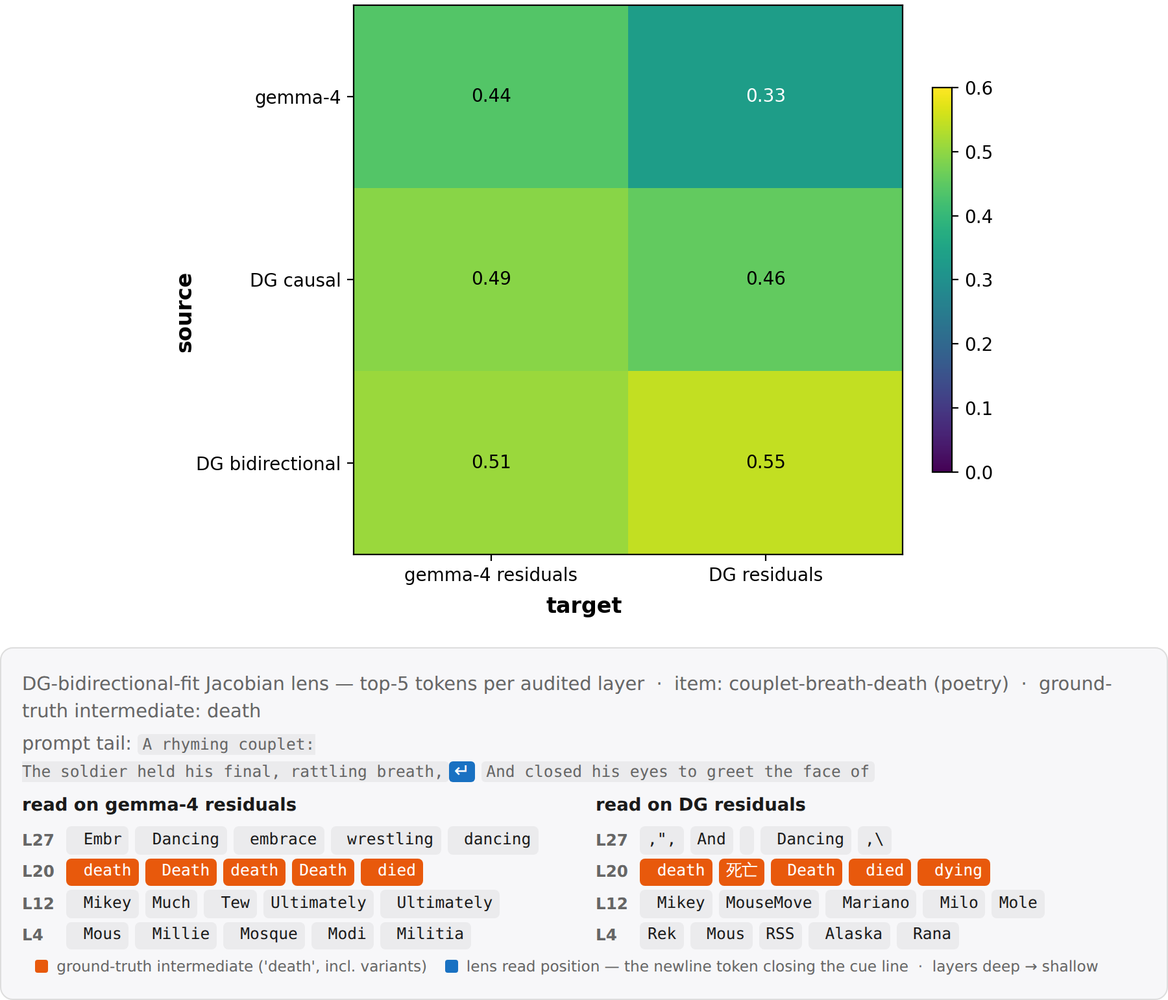
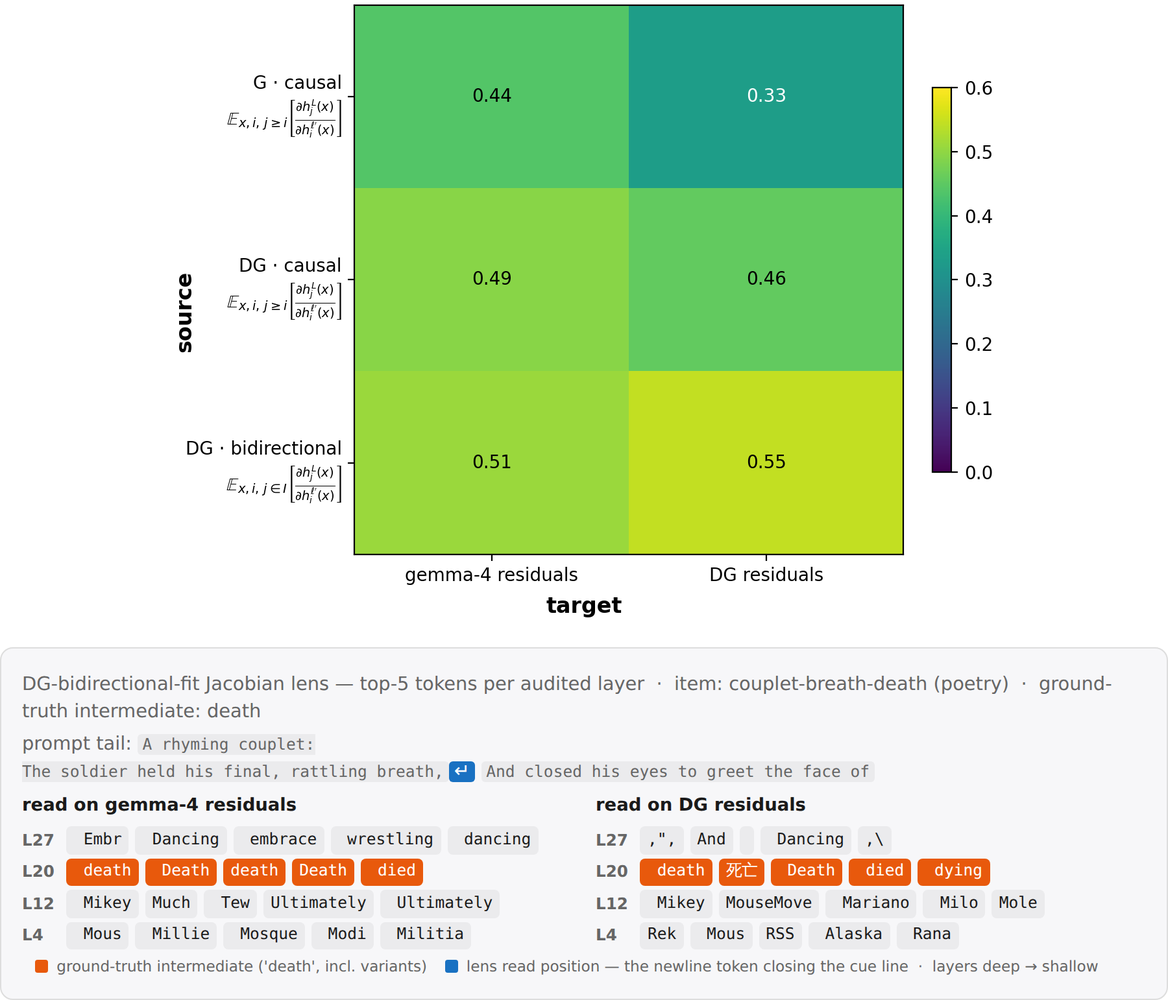
Superscript t everywhere, S^0=0 fill, jlens math source ticks, clickbait caption fix
Claude-Session: https://claude.ai/code/session_01U8CiyQ7ySpBDkYEq4FzNBU

diff --git a/post.html b/post.html
@@ -64,31 +64,31 @@ code.gen.chip{padding:.15em .45em;border-radius:4px;white-space:pre}
 <h2>TL;DR</h2>
 <p>Google DeepMind's recent model DiffusionGemma (DG) works differently from regular language models, including by passing distribution vectors in addition to tokens between generation steps. A priori, this allows it to <strong>pass information that is illegible to monitors</strong>, sometimes called "latent reasoning". A recent paper found that DG nevertheless maintains high monitorability, but at the same time found that ablating the passed distribution degrades performance. Here, we show that this performance degradation is largely a sampler artifact, supporting the case for high monitorability. Nevertheless, we find some rare cases where the distribution vector is load-bearing computationally, however in a way that is easily interpretable. Overall, this underlines the paper's conclusion that DiffusionGemma remains highly monitorable, while nevertheless showing that there are cases where models can learn to use vector-valued information.</p>
 <h2>Introduction</h2>
-<p>DiffusionGemma is a text-generation model, based on the Gemma architecture. In short, generation looks like the following. Let $p$ be the prompt, and let $X_0\in\mathcal{V}^{C}$ be the noise-initialized token canvas comprising $C$ positions. The self-conditioning state $\mathbf{S}_0\in\mathbb{R}^{C\times |\mathcal{V}|}$ is initialised uninformatively — there is no model output to feed back at the first step. Let $f$ denote a single forward pass through the transformer stack, which is a finetune of Gemma. Roughly, the final output $X_T$ then is obtained via</p>
+<p>DiffusionGemma is a text-generation model, based on the Gemma architecture. In short, generation looks like the following. Let $p$ be the prompt, and let $X^0\in\mathcal{V}^{C}$ be the noise-initialized token canvas comprising $C$ positions. The self-conditioning state $\mathbf{S}^0\in\mathbb{R}^{C\times |\mathcal{V}|}$ is initialised uninformatively to $\mathbf{0}$ — there is no model output to feed back at the first step. Let $f$ denote a single forward pass through the transformer stack, which is a finetune of Gemma. Roughly, the final output $X^T$ then is obtained via</p>
 <p>$$
 \begin{aligned}
 &\textbf{for } t = 0, \dots, T-1: \\[2pt]
-&\qquad \mathbf{S}_{t+1} = f(p,\, X_t;\, \mathbf{S}_t) \\[2pt]
-&\qquad X_{t+1} = \mathrm{sample}(\mathbf{S}_{t+1})
+&\qquad \mathbf{S}^{t+1} = f(p,\, X^t;\, \mathbf{S}^t) \\[2pt]
+&\qquad X^{t+1} = \mathrm{sample}(\mathbf{S}^{t+1})
 \end{aligned}
 $$</p>
-<p>where $T$ is the number of diffusion steps. Importantly, $X_t$ attends bidirectionally to itself, and causally to $p$. $\mathbf{s}_t[x_t]$ also functions as a confidence score for any token $x_t$: unless a confidence threshold is passed, $x_t$ gets replaced with a random token at every step $t$, facilitating exploration and correction. Two consequences matter for this post: at such open positions the canvas carries no information from one step to the next — $\mathbf{s}_t$ is the only memory the model has there — and the pace of commitment is set by this confidence gate, so anything that artificially sharpens $\mathbf{s}_t$ (such as truncating it to its top-k entries) makes the gate commit more positions, earlier.</p>
+<p>where $T$ is the number of diffusion steps. Importantly, $X^t$ attends bidirectionally to itself, and causally to $p$. $\mathbf{s}^t[x^t]$ also functions as a confidence score for any token $x^t$: unless a confidence threshold is passed, $x^t$ gets replaced with a random token at every step $t$, facilitating exploration and correction. Two consequences matter for this post: at such open positions the canvas carries no information from one step to the next — $\mathbf{s}^t$ is the only memory the model has there — and the pace of commitment is set by this confidence gate, so anything that artificially sharpens $\mathbf{s}^t$ (such as truncating it to its top-k entries) makes the gate commit more positions, earlier.</p>
 <p>For a visual and more detailed introduction to DiffusionGemma, see <a href="https://newsletter.maartengrootendorst.com/p/a-visual-guide-to-diffusiongemma">this post</a>.</p>
 <p>Thus, generation in DiffusionGemma mainly differs in the following ways:</p>
-<ol><li>Generation happens as reverse diffusion, not as token-by-token autoregression. This is reminiscent of a looped transformer (<a href="https://arxiv.org/abs/2301.13196">Giannou et al., 2023</a>).</li><li>Attention is bidirectional.</li><li>Between every diffusion step, not only the current text output is sampled, but the output distributions $\mathbf{S}_t$ across all positions are also passed to the next diffusion step $t+1$.</li></ol>
-<p>The last point is especially interesting, since it passes the vector-valued object between diffusion steps, in addition to the token canvas $X_t$ lacking the $|\mathcal{V}|$ axis. A priori, this allows the model to transport drastically more information between diffusion steps in an illegible way, hindering monitorability.</p>
+<ol><li>Generation happens as reverse diffusion, not as token-by-token autoregression. This is reminiscent of a looped transformer (<a href="https://arxiv.org/abs/2301.13196">Giannou et al., 2023</a>).</li><li>Attention is bidirectional.</li><li>Between every diffusion step, not only the current text output is sampled, but the output distributions $\mathbf{S}^t$ across all positions are also passed to the next diffusion step $t+1$.</li></ol>
+<p>The last point is especially interesting, since it passes the vector-valued object between diffusion steps, in addition to the token canvas $X^t$ lacking the $|\mathcal{V}|$ axis. A priori, this allows the model to transport drastically more information between diffusion steps in an illegible way, hindering monitorability.</p>
 <h2>Performance degradation from top-k truncation largely is a sampler artifact</h2>
-<p>Investigating this risk, <a href="https://arxiv.org/abs/2606.20560">Engels et al.</a> found that DiffusionGemma scores similar monitorability to Gemma. [maybe give more deets] However, when truncating $\mathbf{s}_t$ to just its top-k entries, performance of DG significantly dropped. Thus somehow the information in $\mathbf{S}_t$ seemed to have been essential to DiffusionGemma, conflicting the results of high monitorability.</p>
+<p>Investigating this risk, <a href="https://arxiv.org/abs/2606.20560">Engels et al.</a> found that DiffusionGemma scores similar monitorability to Gemma. [maybe give more deets] However, when truncating $\mathbf{s}^t$ to just its top-k entries, performance of DG significantly dropped. Thus somehow the information in $\mathbf{S}^t$ seemed to have been essential to DiffusionGemma, conflicting the results of high monitorability.</p>
 <p>However, when replicating their experiments, we observed that the model will often fall into a "degenerate loop", outputting the same token over and over, never reaching the final answer. We found that adopting a gentler sampler largely prevents this failure mode, suggesting that in fact the distribution is not essential to solve these problems. Still, this does not rule out that there is a functional necessity in other tasks that the paper had not investigated.</p>
 <figure><img src="figs/fig1_gpqa_trunc_failures.png" alt="GPQA truncation failure modes"></figure>
-<p><em>A gentler sampler prevents the degenerate loop that caused performance degradation on top-k truncating the distributional state $\mathbf{s}_t$ observed in <a href="https://arxiv.org/abs/2606.20560">Engels et al.</a></em>.</p>
+<p><em>A gentler sampler prevents the degenerate loop that caused performance degradation on top-k truncating the distributional state $\mathbf{s}^t$ observed in <a href="https://arxiv.org/abs/2606.20560">Engels et al.</a></em>.</p>
 <h2>A case study for using the distribution computationally: letter arithmetic</h2>
-<p>We next investigated whether there may still be some other tasks where $\mathbf{S}_t$ in fact is essential. Note that in principle, there is no need for the model to use $\mathbf{S}_t$ whatsoever to satisfy its training objective (indeed, most of the phenomena in <a href="https://arxiv.org/abs/2606.20560">Engels et al.</a> are explained by bidirectional attention+looping). However, it may facilitate trainability and exploration.</p>
+<p>We next investigated whether there may still be some other tasks where $\mathbf{S}^t$ in fact is essential. Note that in principle, there is no need for the model to use $\mathbf{S}^t$ whatsoever to satisfy its training objective (indeed, most of the phenomena in <a href="https://arxiv.org/abs/2606.20560">Engels et al.</a> are explained by bidirectional attention+looping). However, it may facilitate trainability and exploration.</p>
 <p>We therefore looked for tasks where the model plausibly would hold several "hypotheses" in superposition. Note that superposition in a simple form is already present in the pretraining data (<code>Today the weather is _</code>, with <code>rainy</code>and<code>sunny</code> both plausible), so that we were especially interested in cases where this 1) has instead been induced by the model's generalization, 2) involves nontrivial computation (the latter is important, since some superposition may be explained by "interpolating" the training distribution).</p>
 <p>We therefore looked for a task that requires DG to make an unspecified choice, and to do a compution on that choice. Specifically, we consider _letter arithmetic_:</p>
 <p>``<code>Pick any uppercase letter</code>`<code> (the operand $x$) </code>`<code>between A and W, write it, then write the letter</code>`<code> (the target $x'$) </code>`<code>3 </code>`<code>(the increment $k$)</code>`<code> positions later in the alphabet.</code>``</p>
-<p>DG answers these correctly, consistently choosing its own _natural_ operand $x_{\mathrm{nat},\,t}$ and target $x^\prime_{\mathrm{nat},\,t+1}$  (e.g. ``<code>Letters: G, J</code>``). To intervene on this computation, we capture the canvas at some intermediate denoising step $t$, add probability mass $\epsilon$ on a <em>different</em> operand letter $x\neq x_{\mathrm{nat}}$ at the operand position. Importantly, we choose the injection such that $\mathbf{s}^t[x]+\epsilon$ is still not the top logit. This is important, because we would like to measure what DG does to states that are not the most probable ones.</p>
-<p>Then, we measure the response to that perturbation $\mathbf{R}[x'_{t+1}\vert\mathrm{pert}(x_t)] = \log_{10}\big(\bar{\mathbf{s}}_{\mathrm{pert}}^{t+1}[x'_{t+1}]\, / \,\bar{\mathbf{s}}_{\mathrm{base}}^{t+1}[x'_{t+1}]\big)$, where $\bar{ \mathbf{s}}$ indicates an average over 8 replays of the denoising step, each with the still-open canvas tokens at the operand and answer positions independently re-noised (holding the injected $\mathbf{s}^t$ fixed, this averages out the sampler's canvas randomness).</p>
+<p>DG answers these correctly, consistently choosing its own _natural_ operand $x^{t}_{\mathrm{nat}}$ and target $x^{\prime\,t+1}_{\mathrm{nat}}$  (e.g. ``<code>Letters: G, J</code>``). To intervene on this computation, we capture the canvas at some intermediate denoising step $t$, add probability mass $\epsilon$ on a <em>different</em> operand letter $x\neq x_{\mathrm{nat}}$ at the operand position. Importantly, we choose the injection such that $\mathbf{s}^t[x]+\epsilon$ is still not the top logit. This is important, because we would like to measure what DG does to states that are not the most probable ones.</p>
+<p>Then, we measure the response to that perturbation $\mathbf{R}[x^{\prime\,t+1}\vert\mathrm{pert}(x^t)] = \log_{10}\big(\bar{\mathbf{s}}_{\mathrm{pert}}^{t+1}[x^{\prime\,t+1}]\, / \,\bar{\mathbf{s}}_{\mathrm{base}}^{t+1}[x^{\prime\,t+1}]\big)$, where $\bar{ \mathbf{s}}$ indicates an average over 8 replays of the denoising step, each with the still-open canvas tokens at the operand and answer positions independently re-noised (holding the injected $\mathbf{s}^t$ fixed, this averages out the sampler's canvas randomness).</p>
 <figure><img src="figs/fig2a_transfer_map.png" alt="Letter-arithmetic transfer maps"></figure>
 <p><em>Perturbing subleading tokens triggers a response at corresponding target tokens.</em></p>
 <p>For illustration, here is a single intervention in full:</p>
@@ -104,7 +104,7 @@ $$</p>
 <p>Overall, this supports <a href="https://arxiv.org/abs/2606.20560">Engels et al.</a>'s conclusion of a highly monitorable DiffusionGemma. In particular, we did not find any strong evidence of latent _reasoning_, as in using $\mathbf{S}^t$ in a way that carries out meaningful computation and is opaque. Going forward, these largely negative results are an update that "true" latent reasoning is somewhat hard to learn. However, there already exist models like CODI that pass a vector-valued state that is not clearly a superposition of tokens, though they so far don't show superior performance. We believe that finding methods to better interpret such models is an important area of reasearch.</p>
 <h2>Appendix</h2>
 <p>The findings by <a href="https://arxiv.org/abs/2606.20560">Engels et al.</a> and in this post have focussed on DiffusionGemma's behavior. We here study whether the model's representation supports the behavioral finding of high monitorability.</p>
-<h3>Representation similarity (cosine &amp; CKA)</h3>
+<h3>Representation similarity</h3>
 <p>We first ask about how the representation changes between Gemma and DiffusionGemma. A simple way is to just measure overlap between pairs of inputs, where each element of the pair is fed through Gemma or DiffusionGemma, respectively. We here compare a simple cosine similarity, and centered kernel analysis (CKA).</p>
 <figure><img src="figs/figA1_rsa_cosine_cka.png" alt="RSA cosine and CKA"></figure>
 <p><em>Representational similarity falls with layers, and is significantly driven by bare model difference and bidirectional attention.</em></p>
@@ -112,13 +112,13 @@ $$</p>
 <h3>Probe retention</h3>
 <p>Probing allows to study how well a model separates concepts. We use 56 binary concept datasets from the SAE-Probes benchmark (<a href="https://arxiv.org/abs/2502.16681">Kantamneni et al., 2025</a>) and train logistic-regression probes on gemma-4's residual stream (1024 training examples per concept), optimizing the layer via heldout AUC. We then test this probe on DG.</p>
 <figure><img src="figs/figA2_probe_retention.png" alt="Probe retention"></figure>
-<p>_<strong>Probes largely transfer from Gemma to DiffusionGemma.</strong> Top: mean held-out AUC over the 56 concepts, probe source (trained on) × target (applied to); DG is split by attention mode (last-position read everywhere), grey = causal ↔ bidirectional cross-cells not measured. Bottom: a held-out positive and negative test text for one concept (world news): the same gemma-trained probe scores gemma-4 and DG activations near-identically._</p>
+<p>_<strong>Probes largely transfer from Gemma to DiffusionGemma.</strong> Top: mean held-out AUC over the 56 concepts, probe source (trained on) × target (applied to). DG is split by attention mode (last-position read everywhere). Bottom: a held-out positive and negative test text for one concept (clickbait): the same gemma-trained probe scores gemma-4 and DG activations near-identically._</p>
 <p>#### DiffusionGemma's representation is more linearly separable</p>
-<p>Interestingly, training and applying probes on DiffusionGemma in _bidirectional_ attention mode yields a somewhat higher AUC. This is suggestive of DG's bidirectional attention yielding a better structured representation, but is confounded by potentially longer training.</p>
+<p>Interestingly, we observed training and applying probes on DiffusionGemma in _bidirectional_ attention mode yields a somewhat higher AUC. This is suggestive of DG's bidirectional attention yielding a better structured representation, but is confounded by potentially longer training.</p>
 <h3>Steering retention</h3>
-<p>To see whether these similarities in representation are causally load-bearing, we consider the steering experiments from the RepE paper (<a href="https://arxiv.org/abs/2310.01405">Zou et al., 2023</a>). For each of 11 RepE concept tasks we fit a direction $\hat v = \mathrm{normalize}\big(\langle h\rangle_{\mathrm{pos}} - \langle h\rangle_{\mathrm{neg}}\big)$, where $\langle h\rangle_{\mathrm{pos}}$ denotes the mean last-token residual activation $h$ over the task's positive contrastive stimuli (likewise for $\mathrm{neg}$), read separately on each stream (gemma-4, DG causal, DG bidirectional). The direction is then injected additively into the residual stream of the steered model at a fixed strength ($h' \leftarrow h' + \alpha\,\lVert h'\rVert\,\hat v$ with $\alpha=0.35$, layers 9–19) while it completes a neutral carrier prompt, once with $+\hat v$ and once with $-\hat v$. A blinded judge sees the two generations in random order and must identify the $+$steer one.</p>
+<p>To see whether these similarities in representation are causally load-bearing, we consider the steering experiments from the RepE paper (<a href="https://arxiv.org/abs/2310.01405">Zou et al., 2023</a>). For each of 11 RepE concept tasks we fit a direction $\hat v = \mathrm{normalize}\big(\langle h\rangle_{\mathrm{pos}} - \langle h\rangle_{\mathrm{neg}}\big)$, where $\langle h\rangle_{\mathrm{...}}$ denotes the mean last-token residual activation $h$ over the task's positive contrastive stimuli (likewise for $\mathrm{neg}$), read separately on each stream (gemma-4, DG causal, DG bidirectional). The direction is then injected additively into the residual stream of the steered model at a fixed strength ($h' \leftarrow h' + \alpha\,\lVert h'\rVert\,\hat v$ with $\alpha=0.35$, layers 9–19) while it completes a neutral carrier prompt, once with $+\hat v$ and once with $-\hat v$. A blinded judge sees the two generations in random order and must identify the $+$steer one.</p>
 <figure><img src="figs/figA3_steer_retention.png" alt="Steering retention"></figure>
-<p>_<strong>Steering largely transfers from Gemma to DiffusionGemma.</strong> Top: blind-papir judge accuracy, direction source × steered model — every cell steers well above chance (0.70–0.85); bidirectional-fit directions are the weakest sources. Bottom: the same gemma-fit happiness direction applied to gemma-4 and DiffusionGemma on one carrier prompt; judge digests in italics._</p>
+<p>_<strong>Steering largely transfers from Gemma to DiffusionGemma.</strong> Top: blind judge accuracy, direction source × steered model. Bottom: the same gemma-fit happiness direction applied to gemma-4 and DiffusionGemma on one carrier prompt._</p>
 <h3>J-Lens retention</h3>
 <p>The <a href="https://transformer-circuits.pub/2026/workspace/index.html">Jacobian lens</a> reads out what a residual-stream activation $h_\ell$ is disposed to make the model say: it linearly transports $h_\ell$ into the final-layer basis and decodes it with the model's own unembedding, $\mathrm{lens}_\ell(h) = \mathrm{unembed}\big(J_\ell\, h\big)$, where $J_\ell = \mathbb{E}\big[\partial h_{L}/\partial h_\ell\big]$ is the input–output Jacobian averaged over a generic text corpus (WikiText). We fit separate lenses on gemma-4, DG causal, and DG bidirectional, and read each on both models' residual streams.</p>
 <figure><img src="figs/figA4_jlens_retention.png" alt="J-Lens retention"></figure>

diff --git a/scripts/figA4_jlens.py b/scripts/figA4_jlens.py
@@ -23,7 +23,14 @@ for k, v in jj["scores"].items():
     st, idx, cfg, test = k.split("|")
     if "A" in v:
         agg[(cfg, test)].append(v["A"]["score"])
-ROWS = [("g_shared", "gemma-4"), ("dgc_shared", "DG causal"), ("dgb_shared", "DG bidirectional")]
+# source ticks carry the fit-faithful differential-quotient math (report jlens_math_tick
+# convention): causal fits average targets j>=i, the bidirectional fit averages j in I
+def mtick(model, mode, tgt):
+    return (f"{model} · {mode}\n" + r"$\mathbb{E}_{x,i,\," + tgt
+            + r"}\left[\frac{\partial h^{L}_{j}(x)}{\partial h^{\ell'}_{i}(x)}\right]$")
+ROWS = [("g_shared", mtick("G", "causal", r"j\geq i")),
+        ("dgc_shared", mtick("DG", "causal", r"j\geq i")),
+        ("dgb_shared", mtick("DG", "bidirectional", r"j\in I"))]
 COLS = [("g", "gemma-4 residuals"), ("dg", "DG residuals")]
 M = np.array([[np.mean(agg[(r, c)]) for c, _ in COLS] for r, _ in ROWS])
 

diff --git a/scripts/fig2a_transfer_map.py b/scripts/fig2a_transfer_map.py
@@ -47,9 +47,9 @@ vm = np.percentile(np.abs(em.compressed()), 98)
 im = ax.imshow(em, cmap="coolwarm", vmin=-vm, vmax=vm, origin="lower")
 ax.set_xticks(range(NC), xt)
 ax.set_yticks(range(NC + 1), yt)
-ax.set_xlabel(r"$x_t$")
-ax.set_ylabel(r"$x^{\prime}_{t+1} - k$")  # rows are k-aligned (pooled over k), so ticks name the pre-image
-ax.set_title(r"response $\mathbf{R}[x^{\prime}_{t+1} \vert\, \mathrm{pert}(x_t)]$")
+ax.set_xlabel(r"$x^{t}$")
+ax.set_ylabel(r"$x^{\prime\,t+1} - k$")  # rows are k-aligned (pooled over k), so ticks name the pre-image
+ax.set_title(r"response $\mathbf{R}[x^{\prime\,t+1} \vert\, \mathrm{pert}(x^t)]$")
 fig.colorbar(im, ax=ax, shrink=0.8)
 fig.savefig(OUT / "fig2a_transfer_map.png", dpi=200)
 print(OUT / "fig2a_transfer_map.png")

diff --git a/scripts/fig1_trunc_failures.py b/scripts/fig1_trunc_failures.py
@@ -79,7 +79,7 @@ ax.plot(*tops["std"], color="black", linestyle="-")
 ax.plot(*tops["gentle"], color="black", linestyle="--")
 
 ax.set_xticks(x, [RUNG_LAB[r] for r in RUNGS])
-ax.set_xlabel(r"state-vocabulary truncation (top-$k$ of $\mathbf{s}_t$)")
+ax.set_xlabel(r"state-vocabulary truncation (top-$k$ of $\mathbf{s}^t$)")
 ax.set_ylabel("% of rollouts failed")
 ax.set_ylim(0, 100)
 from matplotlib.legend_handler import HandlerTuple

diff --git a/post.md b/post.md
@@ -8,17 +8,17 @@ Overall, this underlines the paper's conclusion that DiffusionGemma remains high
 
 ## Introduction
 
-DiffusionGemma is a text-generation model, based on the Gemma architecture. In short, generation looks like the following. Let $p$ be the prompt, and let $X_0\in\mathcal{V}^{C}$ be the noise-initialized token canvas comprising $C$ positions. The self-conditioning state $\mathbf{S}_0\in\mathbb{R}^{C\times |\mathcal{V}|}$ is initialised uninformatively — there is no model output to feed back at the first step. Let $f$ denote a single forward pass through the transformer stack, which is a finetune of Gemma. Roughly, the final output $X_T$ then is obtained via
+DiffusionGemma is a text-generation model, based on the Gemma architecture. In short, generation looks like the following. Let $p$ be the prompt, and let $X^0\in\mathcal{V}^{C}$ be the noise-initialized token canvas comprising $C$ positions. The self-conditioning state $\mathbf{S}^0\in\mathbb{R}^{C\times |\mathcal{V}|}$ is initialised uninformatively to $\mathbf{0}$ — there is no model output to feed back at the first step. Let $f$ denote a single forward pass through the transformer stack, which is a finetune of Gemma. Roughly, the final output $X^T$ then is obtained via
 
 $$
 \begin{aligned}
 &\textbf{for } t = 0, \dots, T-1: \\[2pt]
-&\qquad \mathbf{S}_{t+1} = f(p,\, X_t;\, \mathbf{S}_t) \\[2pt]
-&\qquad X_{t+1} = \mathrm{sample}(\mathbf{S}_{t+1})
+&\qquad \mathbf{S}^{t+1} = f(p,\, X^t;\, \mathbf{S}^t) \\[2pt]
+&\qquad X^{t+1} = \mathrm{sample}(\mathbf{S}^{t+1})
 \end{aligned}
 $$
 
-where $T$ is the number of diffusion steps. Importantly, $X_t$ attends bidirectionally to itself, and causally to $p$. $\mathbf{s}_t[x_t]$ also functions as a confidence score for any token $x_t$: unless a confidence threshold is passed, $x_t$ gets replaced with a random token at every step $t$, facilitating exploration and correction. Two consequences matter for this post: at such open positions the canvas carries no information from one step to the next — $\mathbf{s}_t$ is the only memory the model has there — and the pace of commitment is set by this confidence gate, so anything that artificially sharpens $\mathbf{s}_t$ (such as truncating it to its top-k entries) makes the gate commit more positions, earlier.
+where $T$ is the number of diffusion steps. Importantly, $X^t$ attends bidirectionally to itself, and causally to $p$. $\mathbf{s}^t[x^t]$ also functions as a confidence score for any token $x^t$: unless a confidence threshold is passed, $x^t$ gets replaced with a random token at every step $t$, facilitating exploration and correction. Two consequences matter for this post: at such open positions the canvas carries no information from one step to the next — $\mathbf{s}^t$ is the only memory the model has there — and the pace of commitment is set by this confidence gate, so anything that artificially sharpens $\mathbf{s}^t$ (such as truncating it to its top-k entries) makes the gate commit more positions, earlier.
 
 For a visual and more detailed introduction to DiffusionGemma, see [this post](https://newsletter.maartengrootendorst.com/p/a-visual-guide-to-diffusiongemma).
 
@@ -26,23 +26,23 @@ Thus, generation in DiffusionGemma mainly differs in the following ways:
 
 1. Generation happens as reverse diffusion, not as token-by-token autoregression. This is reminiscent of a looped transformer ([Giannou et al., 2023](https://arxiv.org/abs/2301.13196)).
 2. Attention is bidirectional.
-3. Between every diffusion step, not only the current text output is sampled, but the output distributions $\mathbf{S}_t$ across all positions are also passed to the next diffusion step $t+1$.
+3. Between every diffusion step, not only the current text output is sampled, but the output distributions $\mathbf{S}^t$ across all positions are also passed to the next diffusion step $t+1$.
 
-The last point is especially interesting, since it passes the vector-valued object between diffusion steps, in addition to the token canvas $X_t$ lacking the $|\mathcal{V}|$ axis. A priori, this allows the model to transport drastically more information between diffusion steps in an illegible way, hindering monitorability.
+The last point is especially interesting, since it passes the vector-valued object between diffusion steps, in addition to the token canvas $X^t$ lacking the $|\mathcal{V}|$ axis. A priori, this allows the model to transport drastically more information between diffusion steps in an illegible way, hindering monitorability.
 
 ## Performance degradation from top-k truncation largely is a sampler artifact
 
-Investigating this risk, [Engels et al.](https://arxiv.org/abs/2606.20560) found that DiffusionGemma scores similar monitorability to Gemma. [maybe give more deets] However, when truncating $\mathbf{s}_t$ to just its top-k entries, performance of DG significantly dropped. Thus somehow the information in $\mathbf{S}_t$ seemed to have been essential to DiffusionGemma, conflicting the results of high monitorability.
+Investigating this risk, [Engels et al.](https://arxiv.org/abs/2606.20560) found that DiffusionGemma scores similar monitorability to Gemma. [maybe give more deets] However, when truncating $\mathbf{s}^t$ to just its top-k entries, performance of DG significantly dropped. Thus somehow the information in $\mathbf{S}^t$ seemed to have been essential to DiffusionGemma, conflicting the results of high monitorability.
 
 However, when replicating their experiments, we observed that the model will often fall into a "degenerate loop", outputting the same token over and over, never reaching the final answer. We found that adopting a gentler sampler largely prevents this failure mode, suggesting that in fact the distribution is not essential to solve these problems. Still, this does not rule out that there is a functional necessity in other tasks that the paper had not investigated.
 
 ![GPQA truncation failure modes](figs/fig1_gpqa_trunc_failures.png)
 
-*A gentler sampler prevents the degenerate loop that caused performance degradation on top-k truncating the distributional state $\mathbf{s}_t$ observed in [Engels et al.](https://arxiv.org/abs/2606.20560)*.
+*A gentler sampler prevents the degenerate loop that caused performance degradation on top-k truncating the distributional state $\mathbf{s}^t$ observed in [Engels et al.](https://arxiv.org/abs/2606.20560)*.
 
 ## A case study for using the distribution computationally: letter arithmetic
 
-We next investigated whether there may still be some other tasks where $\mathbf{S}_t$ in fact is essential. Note that in principle, there is no need for the model to use $\mathbf{S}_t$ whatsoever to satisfy its training objective (indeed, most of the phenomena in [Engels et al.](https://arxiv.org/abs/2606.20560) are explained by bidirectional attention+looping). However, it may facilitate trainability and exploration.
+We next investigated whether there may still be some other tasks where $\mathbf{S}^t$ in fact is essential. Note that in principle, there is no need for the model to use $\mathbf{S}^t$ whatsoever to satisfy its training objective (indeed, most of the phenomena in [Engels et al.](https://arxiv.org/abs/2606.20560) are explained by bidirectional attention+looping). However, it may facilitate trainability and exploration.
 
 We therefore looked for tasks where the model plausibly would hold several "hypotheses" in superposition. Note that superposition in a simple form is already present in the pretraining data (`Today the weather is _`, with `rainy`and`sunny` both plausible), so that we were especially interested in cases where this 1) has instead been induced by the model's generalization, 2) involves nontrivial computation (the latter is important, since some superposition may be explained by "interpolating" the training distribution).
 
@@ -50,9 +50,9 @@ We therefore looked for a task that requires DG to make an unspecified choice, a
 
 ```Pick any uppercase letter``` (the operand $x$) ```between A and W, write it, then write the letter``` (the target $x'$) ```3 ```(the increment $k$)``` positions later in the alphabet.```
 
-DG answers these correctly, consistently choosing its own _natural_ operand $x_{\mathrm{nat},\,t}$ and target $x^\prime_{\mathrm{nat},\,t+1}$  (e.g. ```Letters: G, J```). To intervene on this computation, we capture the canvas at some intermediate denoising step $t$, add probability mass $\epsilon$ on a *different* operand letter $x\neq x_{\mathrm{nat}}$ at the operand position. Importantly, we choose the injection such that $\mathbf{s}^t[x]+\epsilon$ is still not the top logit. This is important, because we would like to measure what DG does to states that are not the most probable ones.
+DG answers these correctly, consistently choosing its own _natural_ operand $x^{t}_{\mathrm{nat}}$ and target $x^{\prime\,t+1}_{\mathrm{nat}}$  (e.g. ```Letters: G, J```). To intervene on this computation, we capture the canvas at some intermediate denoising step $t$, add probability mass $\epsilon$ on a *different* operand letter $x\neq x_{\mathrm{nat}}$ at the operand position. Importantly, we choose the injection such that $\mathbf{s}^t[x]+\epsilon$ is still not the top logit. This is important, because we would like to measure what DG does to states that are not the most probable ones.
 
-Then, we measure the response to that perturbation $\mathbf{R}[x'_{t+1}\vert\mathrm{pert}(x_t)] = \log_{10}\big(\bar{\mathbf{s}}_{\mathrm{pert}}^{t+1}[x'_{t+1}]\, / \,\bar{\mathbf{s}}_{\mathrm{base}}^{t+1}[x'_{t+1}]\big)$, where $\bar{ \mathbf{s}}$ indicates an average over 8 replays of the denoising step, each with the still-open canvas tokens at the operand and answer positions independently re-noised (holding the injected $\mathbf{s}^t$ fixed, this averages out the sampler's canvas randomness).
+Then, we measure the response to that perturbation $\mathbf{R}[x^{\prime\,t+1}\vert\mathrm{pert}(x^t)] = \log_{10}\big(\bar{\mathbf{s}}_{\mathrm{pert}}^{t+1}[x^{\prime\,t+1}]\, / \,\bar{\mathbf{s}}_{\mathrm{base}}^{t+1}[x^{\prime\,t+1}]\big)$, where $\bar{ \mathbf{s}}$ indicates an average over 8 replays of the denoising step, each with the still-open canvas tokens at the operand and answer positions independently re-noised (holding the injected $\mathbf{s}^t$ fixed, this averages out the sampler's canvas randomness).
 
 ![Letter-arithmetic transfer maps](figs/fig2a_transfer_map.png)
 
@@ -84,7 +84,7 @@ Overall, this supports [Engels et al.](https://arxiv.org/abs/2606.20560)'s concl
 
 The findings by [Engels et al.](https://arxiv.org/abs/2606.20560) and in this post have focussed on DiffusionGemma's behavior. We here study whether the model's representation supports the behavioral finding of high monitorability.
 
-### Representation similarity (cosine & CKA)
+### Representation similarity
 
 We first ask about how the representation changes between Gemma and DiffusionGemma. A simple way is to just measure overlap between pairs of inputs, where each element of the pair is fed through Gemma or DiffusionGemma, respectively. We here compare a simple cosine similarity, and centered kernel analysis (CKA).
 
@@ -100,19 +100,19 @@ Probing allows to study how well a model separates concepts. We use 56 binary co
 
 ![Probe retention](figs/figA2_probe_retention.png)
 
-_**Probes largely transfer from Gemma to DiffusionGemma.** Top: mean held-out AUC over the 56 concepts, probe source (trained on) × target (applied to); DG is split by attention mode (last-position read everywhere), grey = causal ↔ bidirectional cross-cells not measured. Bottom: a held-out positive and negative test text for one concept (world news): the same gemma-trained probe scores gemma-4 and DG activations near-identically._
+_**Probes largely transfer from Gemma to DiffusionGemma.** Top: mean held-out AUC over the 56 concepts, probe source (trained on) × target (applied to). DG is split by attention mode (last-position read everywhere). Bottom: a held-out positive and negative test text for one concept (clickbait): the same gemma-trained probe scores gemma-4 and DG activations near-identically._
 
 #### DiffusionGemma's representation is more linearly separable
 
-Interestingly, training and applying probes on DiffusionGemma in _bidirectional_ attention mode yields a somewhat higher AUC. This is suggestive of DG's bidirectional attention yielding a better structured representation, but is confounded by potentially longer training.
+Interestingly, we observed training and applying probes on DiffusionGemma in _bidirectional_ attention mode yields a somewhat higher AUC. This is suggestive of DG's bidirectional attention yielding a better structured representation, but is confounded by potentially longer training.
 
 ### Steering retention
 
-To see whether these similarities in representation are causally load-bearing, we consider the steering experiments from the RepE paper ([Zou et al., 2023](https://arxiv.org/abs/2310.01405)). For each of 11 RepE concept tasks we fit a direction $\hat v = \mathrm{normalize}\big(\langle h\rangle_{\mathrm{pos}} - \langle h\rangle_{\mathrm{neg}}\big)$, where $\langle h\rangle_{\mathrm{pos}}$ denotes the mean last-token residual activation $h$ over the task's positive contrastive stimuli (likewise for $\mathrm{neg}$), read separately on each stream (gemma-4, DG causal, DG bidirectional). The direction is then injected additively into the residual stream of the steered model at a fixed strength ($h' \leftarrow h' + \alpha\,\lVert h'\rVert\,\hat v$ with $\alpha=0.35$, layers 9–19) while it completes a neutral carrier prompt, once with $+\hat v$ and once with $-\hat v$. A blinded judge sees the two generations in random order and must identify the $+$steer one.
+To see whether these similarities in representation are causally load-bearing, we consider the steering experiments from the RepE paper ([Zou et al., 2023](https://arxiv.org/abs/2310.01405)). For each of 11 RepE concept tasks we fit a direction $\hat v = \mathrm{normalize}\big(\langle h\rangle_{\mathrm{pos}} - \langle h\rangle_{\mathrm{neg}}\big)$, where $\langle h\rangle_{\mathrm{...}}$ denotes the mean last-token residual activation $h$ over the task's positive contrastive stimuli (likewise for $\mathrm{neg}$), read separately on each stream (gemma-4, DG causal, DG bidirectional). The direction is then injected additively into the residual stream of the steered model at a fixed strength ($h' \leftarrow h' + \alpha\,\lVert h'\rVert\,\hat v$ with $\alpha=0.35$, layers 9–19) while it completes a neutral carrier prompt, once with $+\hat v$ and once with $-\hat v$. A blinded judge sees the two generations in random order and must identify the $+$steer one.
 
 ![Steering retention](figs/figA3_steer_retention.png)
 
-_**Steering largely transfers from Gemma to DiffusionGemma.** Top: blind-papir judge accuracy, direction source × steered model — every cell steers well above chance (0.70–0.85); bidirectional-fit directions are the weakest sources. Bottom: the same gemma-fit happiness direction applied to gemma-4 and DiffusionGemma on one carrier prompt; judge digests in italics._
+_**Steering largely transfers from Gemma to DiffusionGemma.** Top: blind judge accuracy, direction source × steered model. Bottom: the same gemma-fit happiness direction applied to gemma-4 and DiffusionGemma on one carrier prompt._
 
 ### J-Lens retention
 

diff --git a/AGENTS.md b/AGENTS.md
@@ -15,7 +15,7 @@ distribution (the R^|V| object: confidence `\mathbf{s}_t[x_t]`, top-k truncation
 the R-definition's `\bar{\mathbf{s}}`); bold uppercase `\mathbf{S}` = the full sheet
 (R^{C×|V|}: the algorithm box, "passed between steps", S-mass). Likewise lowercase `x` = a
 single token, uppercase `X` = the full canvas (the V^C object: `X_t` in the algorithm box,
-"attends bidirectionally"). Sub/superscript placement of t follows the surrounding section.
+"attends bidirectionally"). The time index t is ALWAYS a superscript (`\mathbf{S}^t`, `\mathbf{s}^t`, `X^t`, `x^t`, `x^{\prime\,t+1}`; since 2026-08-02) — never `_t`.
 
 ## Build pipeline
 
